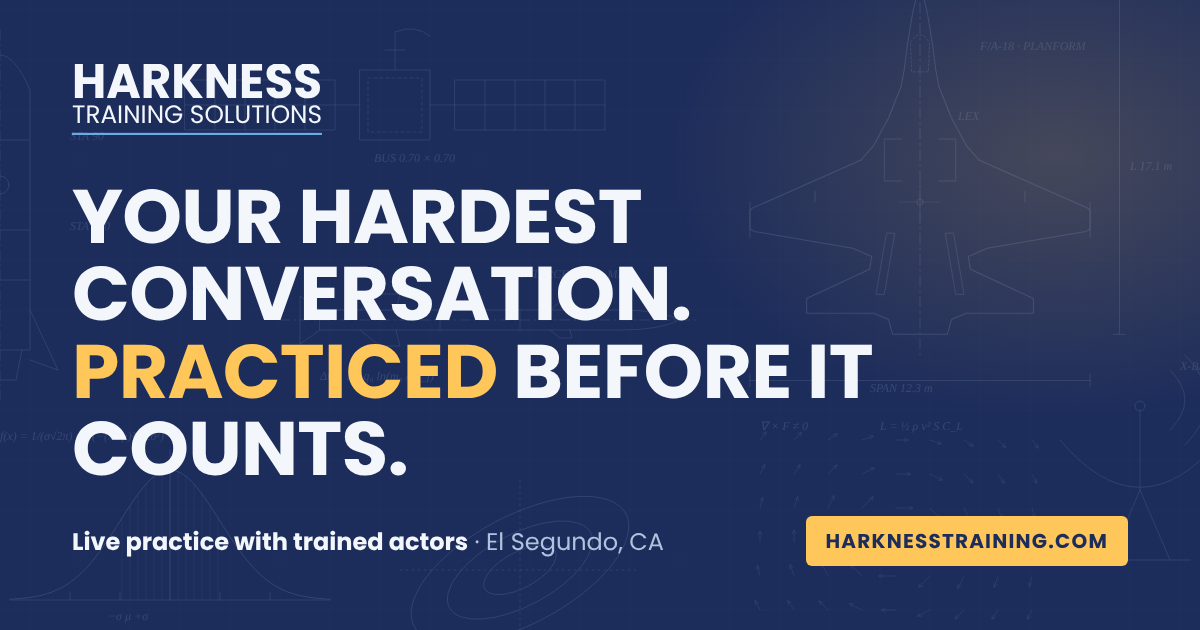
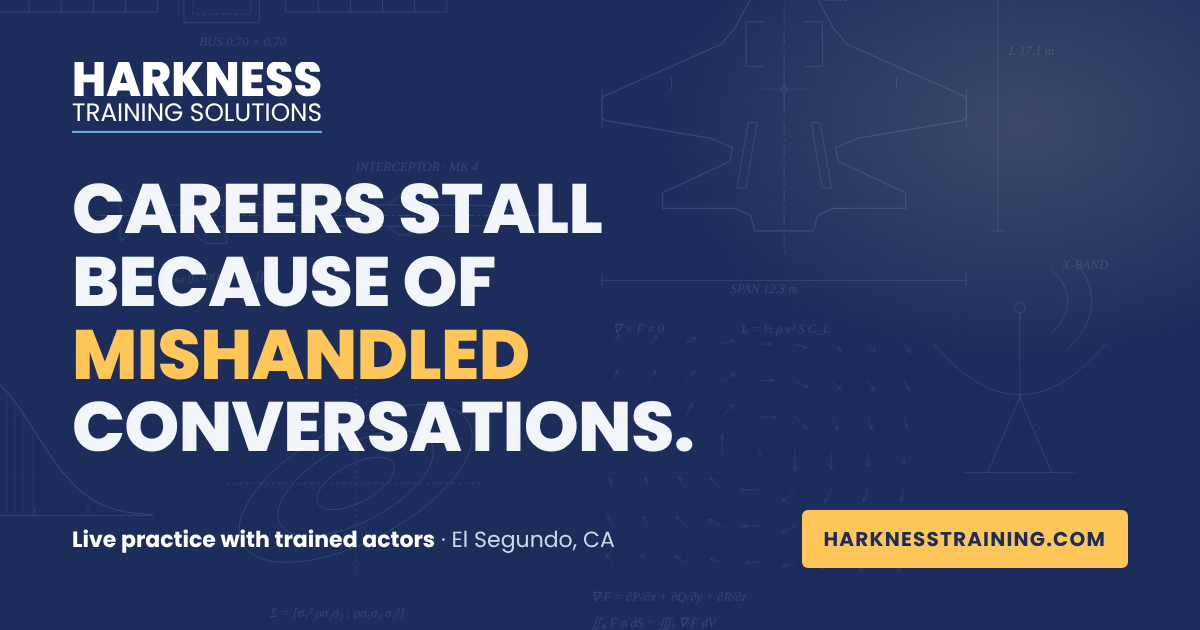
New headline: Careers stall because of mishandled conversations.
Tagline back to 'We train leaders to communicate clearly under pressure.'
(page, search description, link preview). Share card regenerated with
the new headline; alt text updated on every page.

Claude-Session: https://claude.ai/code/session_01XeyrcVk3fKTFb1ahkmpLX2

diff --git a/index.html b/index.html
@@ -5,18 +5,18 @@
 <meta name="viewport" content="width=device-width, initial-scale=1, viewport-fit=cover">
 <title>Harkness Training Solutions</title>
 <meta name="claude:viewport-fit-sides" content="cover">
-<meta name="description" content="We train leaders to communicate clearly. We teach a simple storytelling framework, practice hard conversations with trained improv actors, and sharpen skills through immediate peer feedback. El Segundo, CA.">
+<meta name="description" content="We train leaders to communicate clearly under pressure. We teach a simple storytelling framework, practice hard conversations with trained improv actors, and sharpen skills through immediate peer feedback. El Segundo, CA.">
 <meta name="theme-color" content="#1C2C5B">
 <link rel="icon" href="assets/favicon.svg" type="image/svg+xml">
 <link rel="apple-touch-icon" href="assets/apple-touch-icon.png">
 <meta property="og:type" content="website">
 <meta property="og:site_name" content="Harkness Training Solutions">
 <meta property="og:title" content="Harkness Training Solutions">
-<meta property="og:description" content="We train leaders to communicate clearly. We teach a simple storytelling framework, practice hard conversations with trained improv actors, and sharpen skills through immediate peer feedback. El Segundo, CA.">
+<meta property="og:description" content="We train leaders to communicate clearly under pressure. We teach a simple storytelling framework, practice hard conversations with trained improv actors, and sharpen skills through immediate peer feedback. El Segundo, CA.">
 <meta property="og:image" content="https://harknesstraining.com/assets/og.png">
 <meta property="og:image:width" content="1200">
 <meta property="og:image:height" content="630">
-<meta property="og:image:alt" content="Harkness Training Solutions: Your hardest conversation. Practiced before it counts.">
+<meta property="og:image:alt" content="Harkness Training Solutions: Careers stall because of mishandled conversations.">
 <meta name="twitter:card" content="summary_large_image">
 <meta name="twitter:site" content="@HarknessTrain">
 <meta name="twitter:image" content="https://harknesstraining.com/assets/og.png">
@@ -49,8 +49,8 @@
   <div class="wrap">
     <div class="hero-grid solo" id="top">
       <div>
-        <h1 class="h-two"><span>Your hardest conversation.</span> <span><em>Practiced</em> before it counts.</span></h1>
-        <p class="pos">We train leaders to communicate clearly.</p>
+        <h1 class="h-two"><span>Careers stall because of</span> <span><em>mishandled</em> conversations.</span></h1>
+        <p class="pos">We train leaders to communicate clearly under pressure.</p>
         <p class="pos pos-2"><span class="l1">We teach a simple storytelling framework,</span> <span class="l2">practice hard conversations with trained improv actors,</span> <span class="l3">and sharpen skills through immediate peer feedback.</span></p>
         <div class="cta-row doors">
           <a class="btn btn-hot" href="#open-night">Try it free at Open Night</a>

diff --git a/custom.html b/custom.html
@@ -16,7 +16,7 @@
 <meta property="og:image" content="https://harknesstraining.com/assets/og.png">
 <meta property="og:image:width" content="1200">
 <meta property="og:image:height" content="630">
-<meta property="og:image:alt" content="Harkness Training Solutions: Your hardest conversation. Practiced before it counts.">
+<meta property="og:image:alt" content="Harkness Training Solutions: Careers stall because of mishandled conversations.">
 <meta name="twitter:card" content="summary_large_image">
 <meta name="twitter:site" content="@HarknessTrain">
 <meta name="twitter:image" content="https://harknesstraining.com/assets/og.png">

diff --git a/demo.html b/demo.html
@@ -16,7 +16,7 @@
 <meta property="og:image" content="https://harknesstraining.com/assets/og.png">
 <meta property="og:image:width" content="1200">
 <meta property="og:image:height" content="630">
-<meta property="og:image:alt" content="Harkness Training Solutions: Your hardest conversation. Practiced before it counts.">
+<meta property="og:image:alt" content="Harkness Training Solutions: Careers stall because of mishandled conversations.">
 <meta name="twitter:card" content="summary_large_image">
 <meta name="twitter:site" content="@HarknessTrain">
 <meta name="twitter:image" content="https://harknesstraining.com/assets/og.png">

diff --git a/next.html b/next.html
@@ -16,7 +16,7 @@
 <meta property="og:image" content="https://harknesstraining.com/assets/og.png">
 <meta property="og:image:width" content="1200">
 <meta property="og:image:height" content="630">
-<meta property="og:image:alt" content="Harkness Training Solutions: Your hardest conversation. Practiced before it counts.">
+<meta property="og:image:alt" content="Harkness Training Solutions: Careers stall because of mishandled conversations.">
 <meta name="twitter:card" content="summary_large_image">
 <meta name="twitter:site" content="@HarknessTrain">
 <meta name="twitter:image" content="https://harknesstraining.com/assets/og.png">
